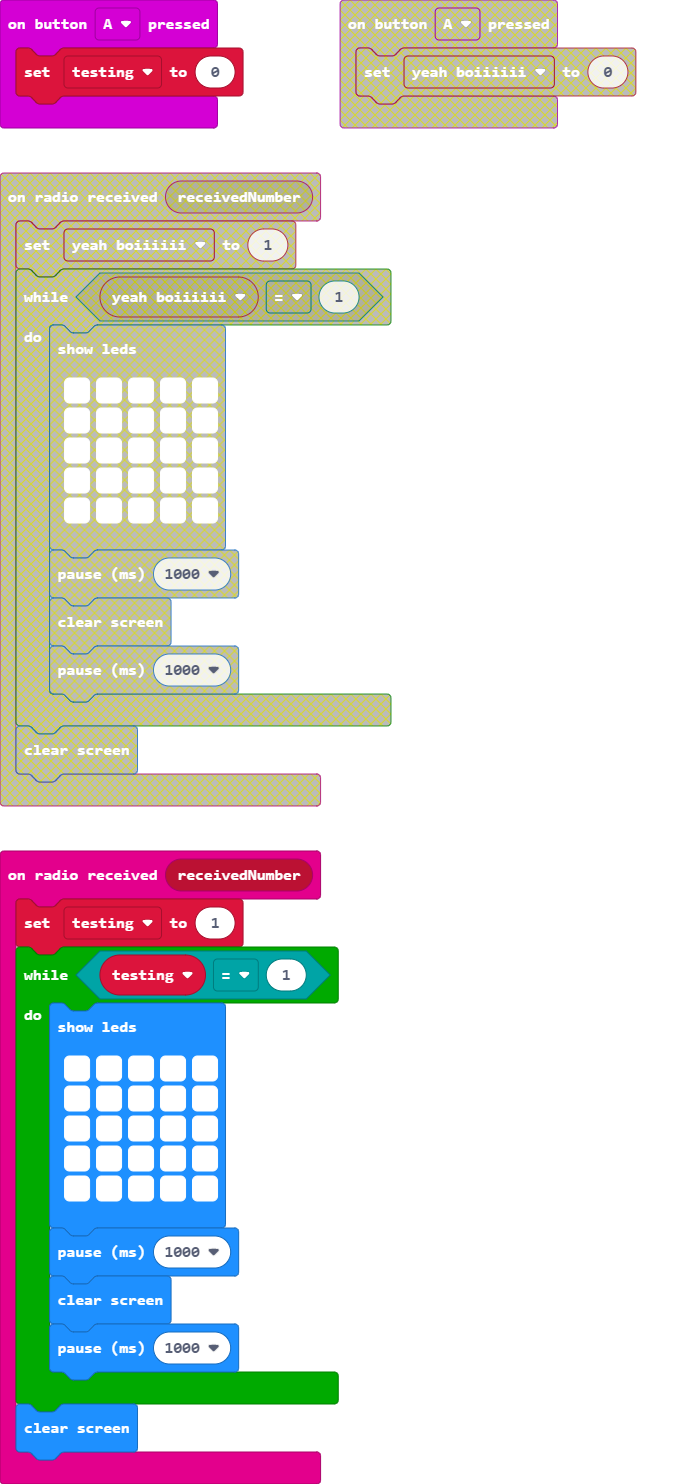
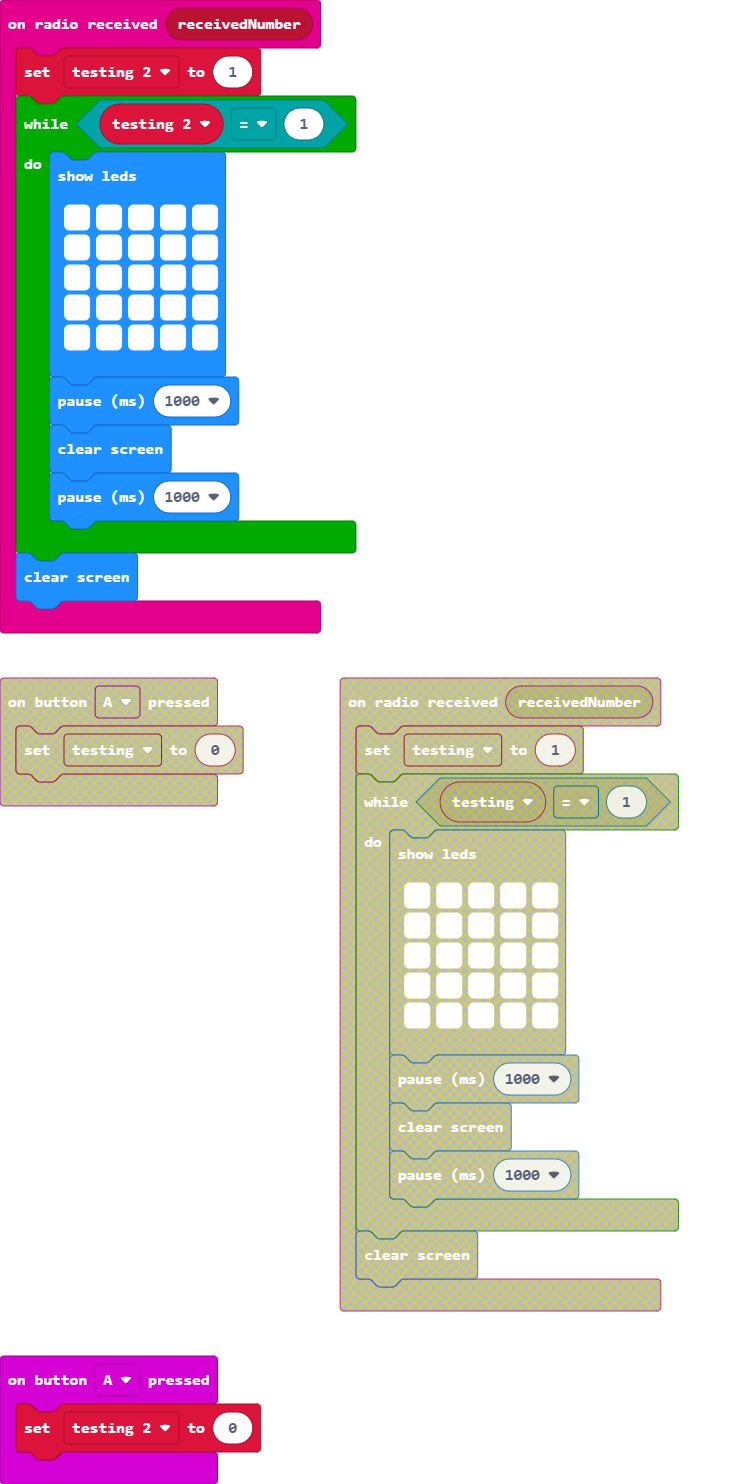
Update main.blocks, main.ts

diff --git a/main.ts b/main.ts
@@ -1,7 +1,7 @@
-let testing = 0
+let testing_2 = 0
 radio.onReceivedNumber(function (receivedNumber) {
-    testing = 1
-    while (testing == 1) {
+    testing_2 = 1
+    while (testing_2 == 1) {
         basic.showLeds(`
             # # # # #
             # # # # #
@@ -16,7 +16,7 @@ radio.onReceivedNumber(function (receivedNumber) {
     basic.clearScreen()
 })
 input.onButtonPressed(Button.A, function () {
-    testing = 0
+    testing_2 = 0
 })
 input.onGesture(Gesture.Shake, function () {
     radio.sendNumber(0)
